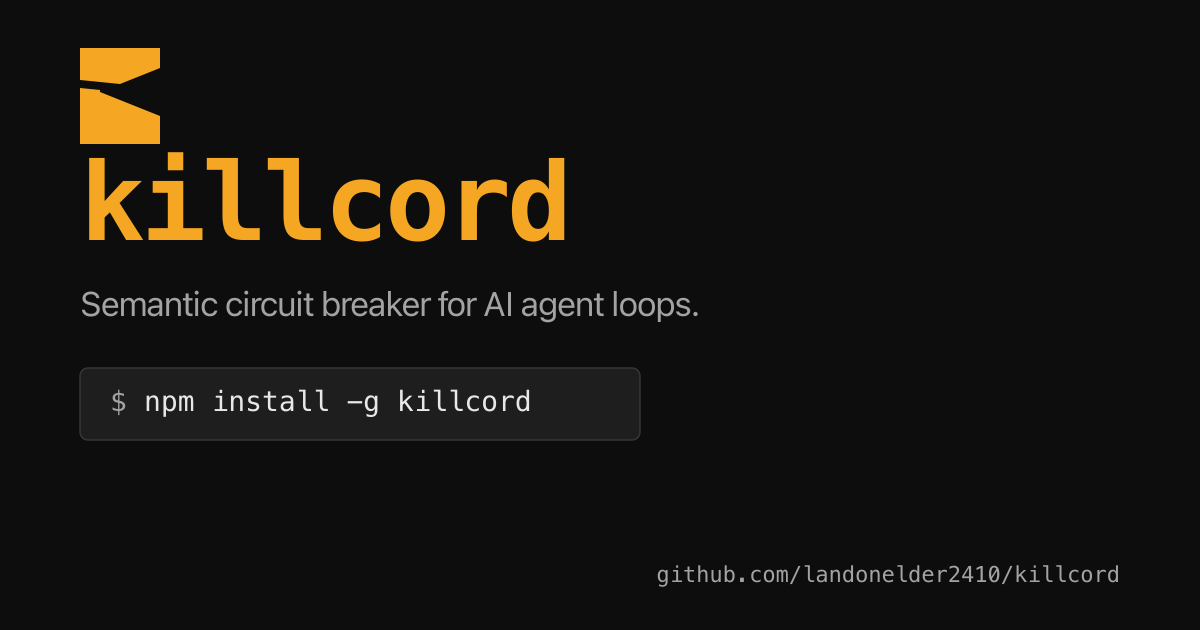
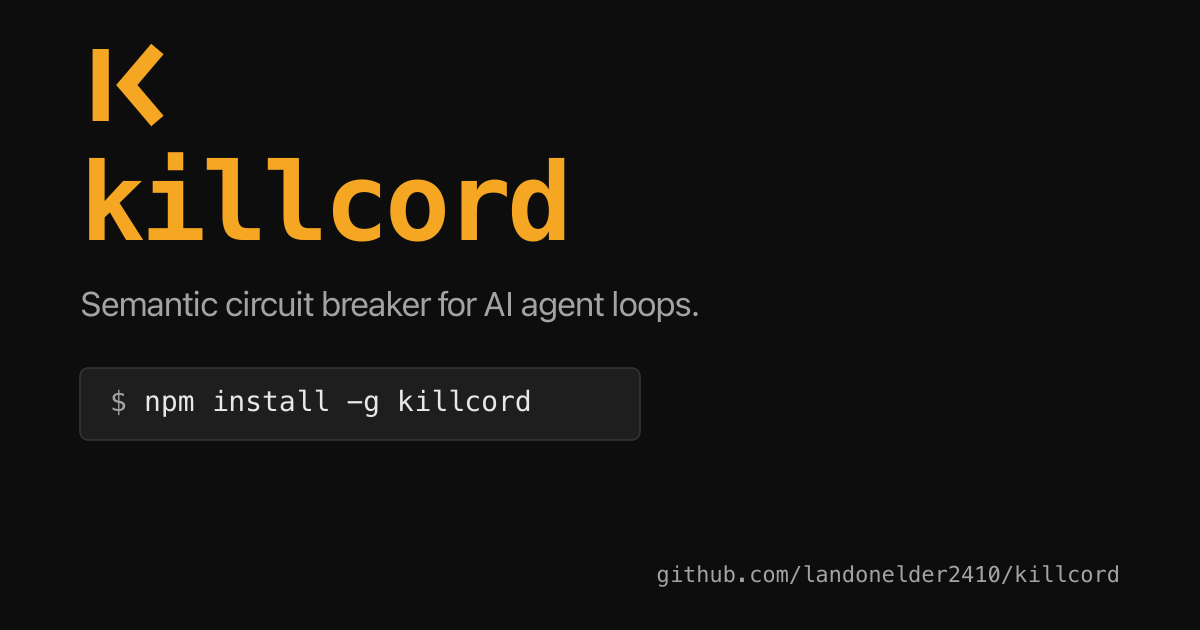
Replace mark with stem + detached chevron geometry
Vertical rect stem plus miter-jointed chevron path — gap between them
is the severed-cord motif. Favicon uses x=48/strokeWidth=20 for
16×16 legibility. OG image regenerated.

Changed region(s): [[0.0617, 0.0603, 0.1542, 0.2413]]

diff --git a/web/app/page.tsx b/web/app/page.tsx
@@ -1,5 +1,5 @@
 import { CopyButton } from '../components/CopyButton';
-import Mark from '../components/Mark';
+import { Mark } from '../components/Mark';
 
 const GITHUB_URL  = 'https://github.com/landonelder2410/killcord';
 const NPM_URL     = 'https://www.npmjs.com/package/killcord';
@@ -41,7 +41,7 @@ export default function Home() {
       <header className="site-header">
         <div className="header-inner">
           <span className="logo">
-            <Mark height={16} className="logo-mark" />
+            <Mark size={18} className="logo-mark" />
             killcord
           </span>
           <nav className="header-links">
@@ -56,7 +56,7 @@ export default function Home() {
 
         {/* ── 1. HERO ────────────────────────────────────────────────── */}
         <section className="hero">
-          <Mark height={40} className="hero-mark" />
+          <Mark size={48} className="hero-mark" />
           <h1 className="hero-h1">killcord</h1>
           <p className="hero-sub">
             Agents that loop don't stop — they burn budget until something else breaks.
@@ -394,7 +394,7 @@ OPENAI_UPSTREAM=https://api.openai.com     killcord`}</pre>
         <div className="footer-inner">
           <div className="footer-left">
             <span className="logo footer-logo">
-              <Mark height={14} className="footer-mark" />
+              <Mark size={16} className="footer-mark" />
               killcord
             </span>
             <span className="footer-copy">MIT 0.1.x · Driftflow LLC</span>

diff --git a/web/components/Mark.tsx b/web/components/Mark.tsx
@@ -1,21 +1,10 @@
-interface MarkProps {
-  height?: number;
-  className?: string;
-}
-
-export default function Mark({ height = 24, className }: MarkProps) {
-  const width = (height * 20) / 24;
+export function Mark({ size = 24, className = '' }: { size?: number; className?: string }) {
   return (
-    <svg
-      width={width}
-      height={height}
-      viewBox="0 0 20 24"
-      fill="currentColor"
-      aria-hidden="true"
-      className={className}
-    >
-      <polygon points="0,0 5,0 20,0 20,5 10,9 5,8.5 0,8" />
-      <polygon points="0,10 0,24 5,24 20,24 20,17 5,11 5,10.5" />
+    <svg viewBox="0 0 100 100" width={size} height={size} fill="none"
+         className={className} aria-hidden="true">
+      <rect x="14" y="10" width="18" height="80" fill="currentColor" />
+      <path d="M86 10 L52 50 L86 90" stroke="currentColor" strokeWidth="18"
+            strokeLinejoin="miter" fill="none" />
     </svg>
   );
 }
